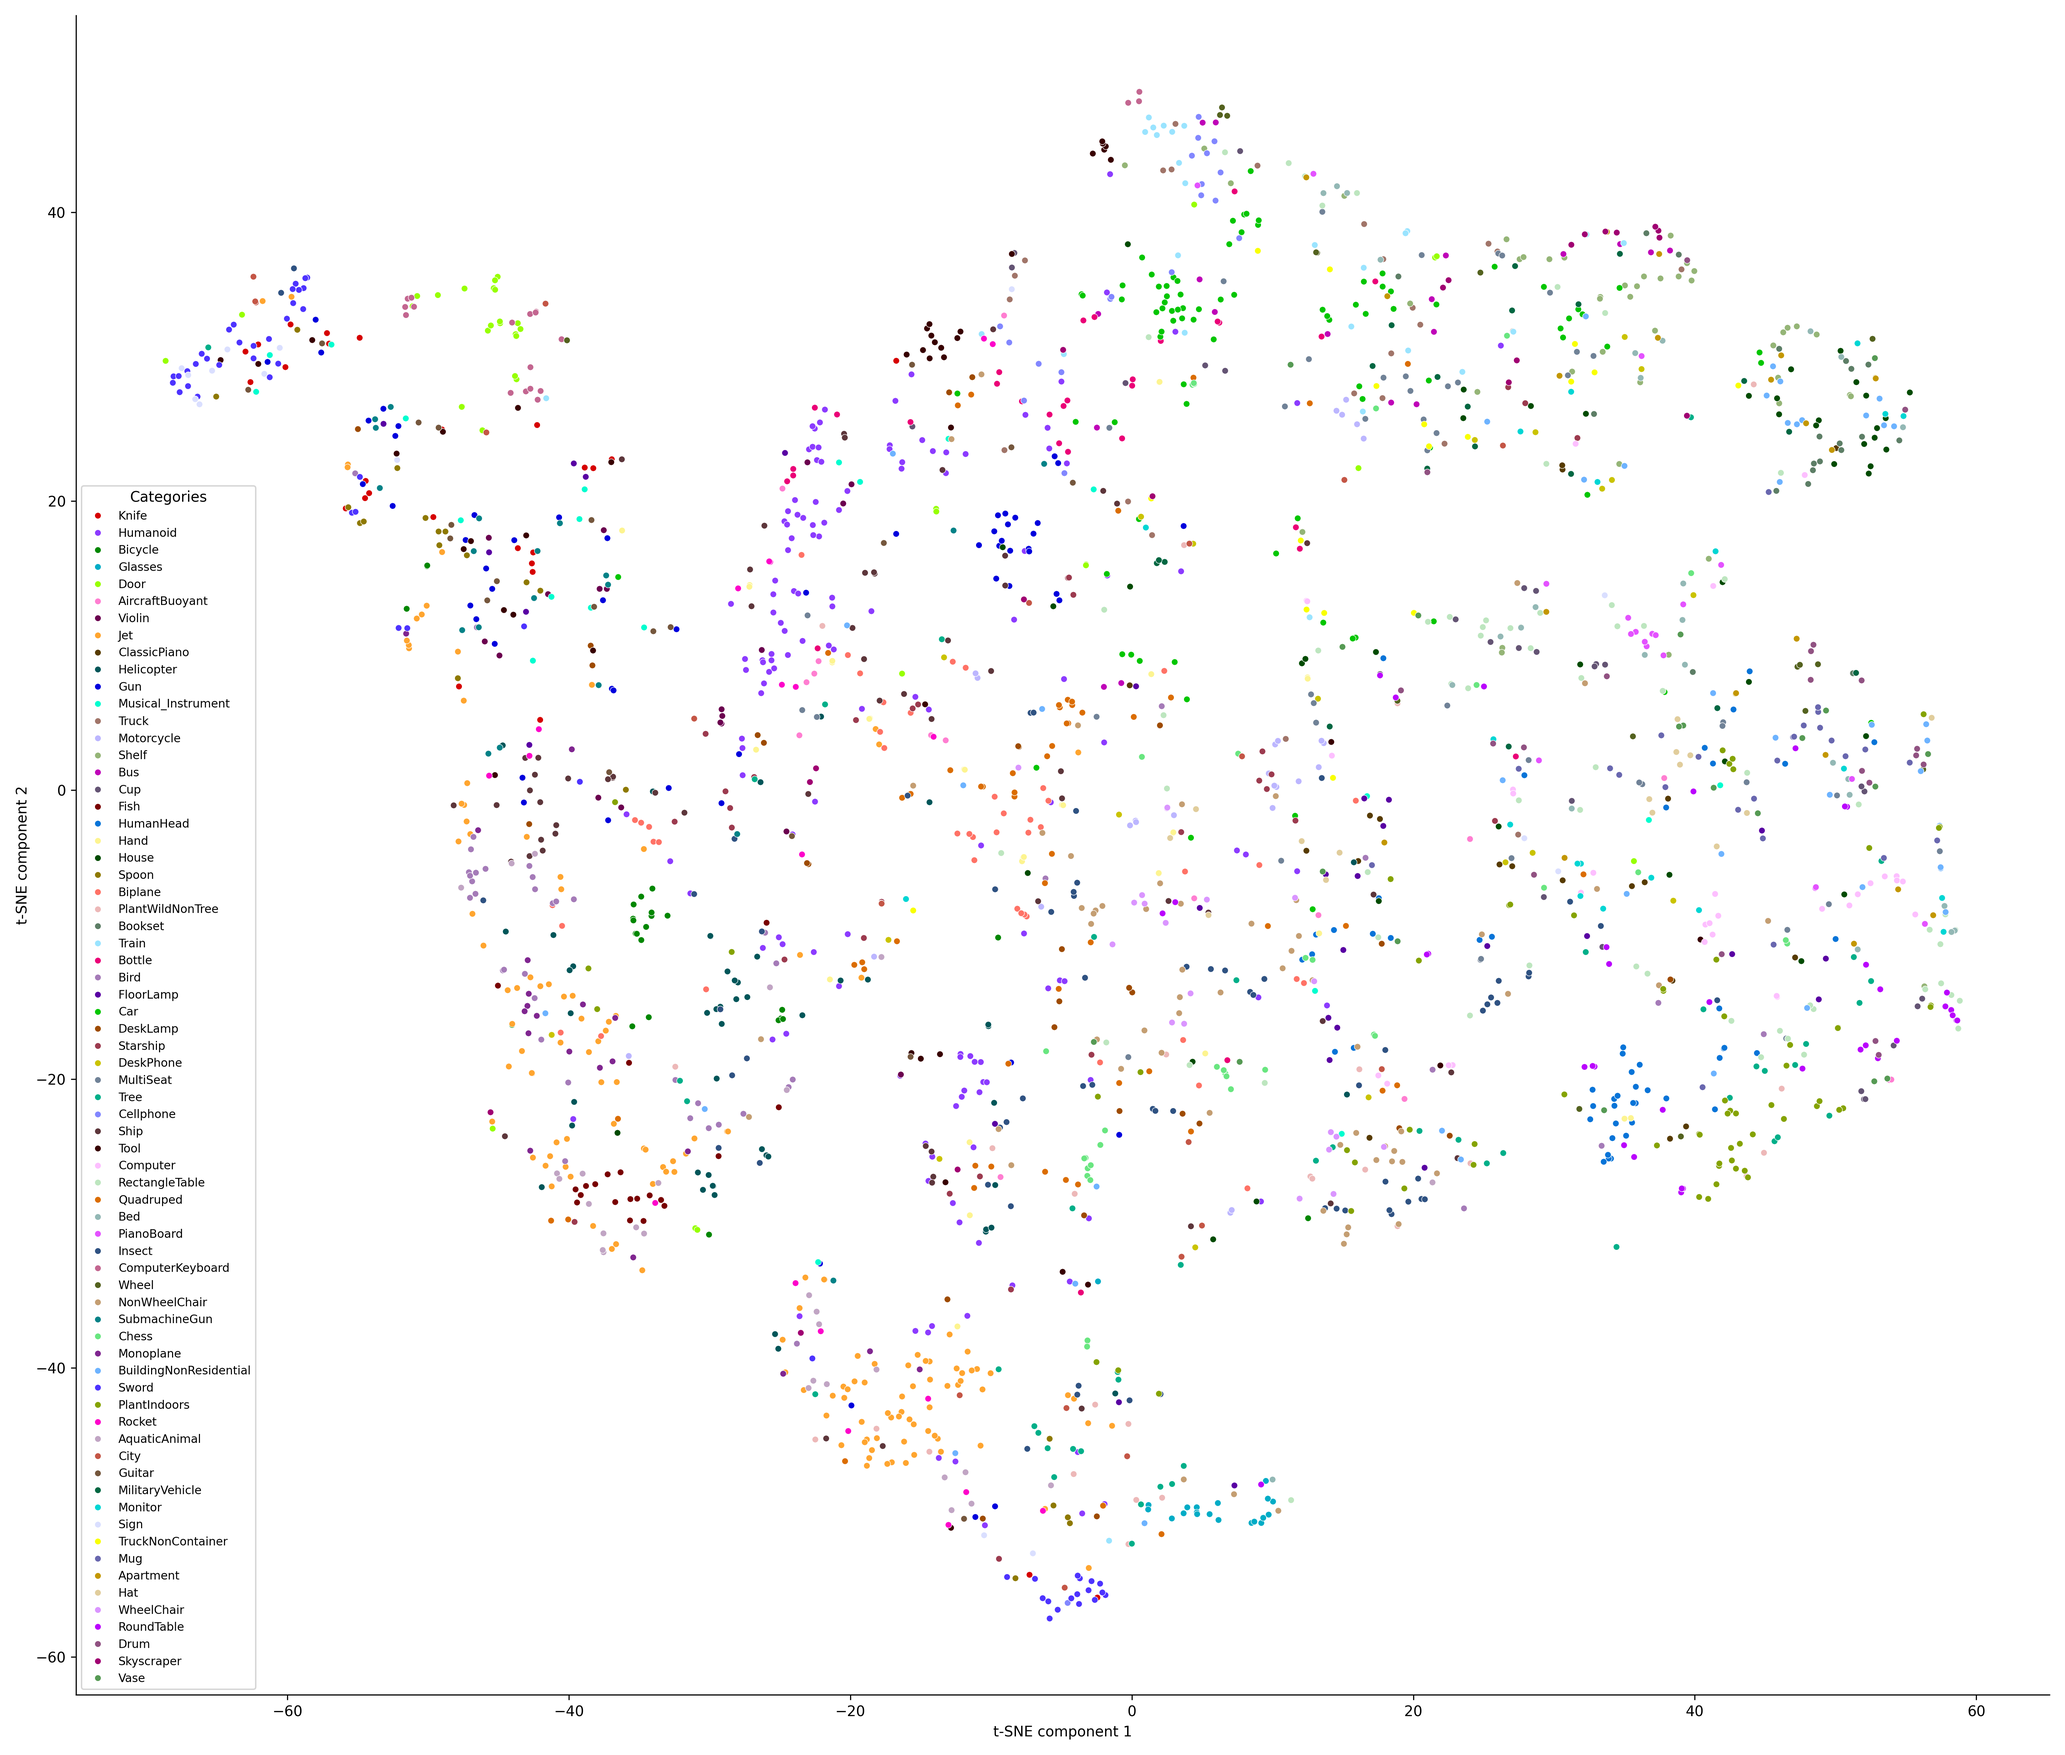
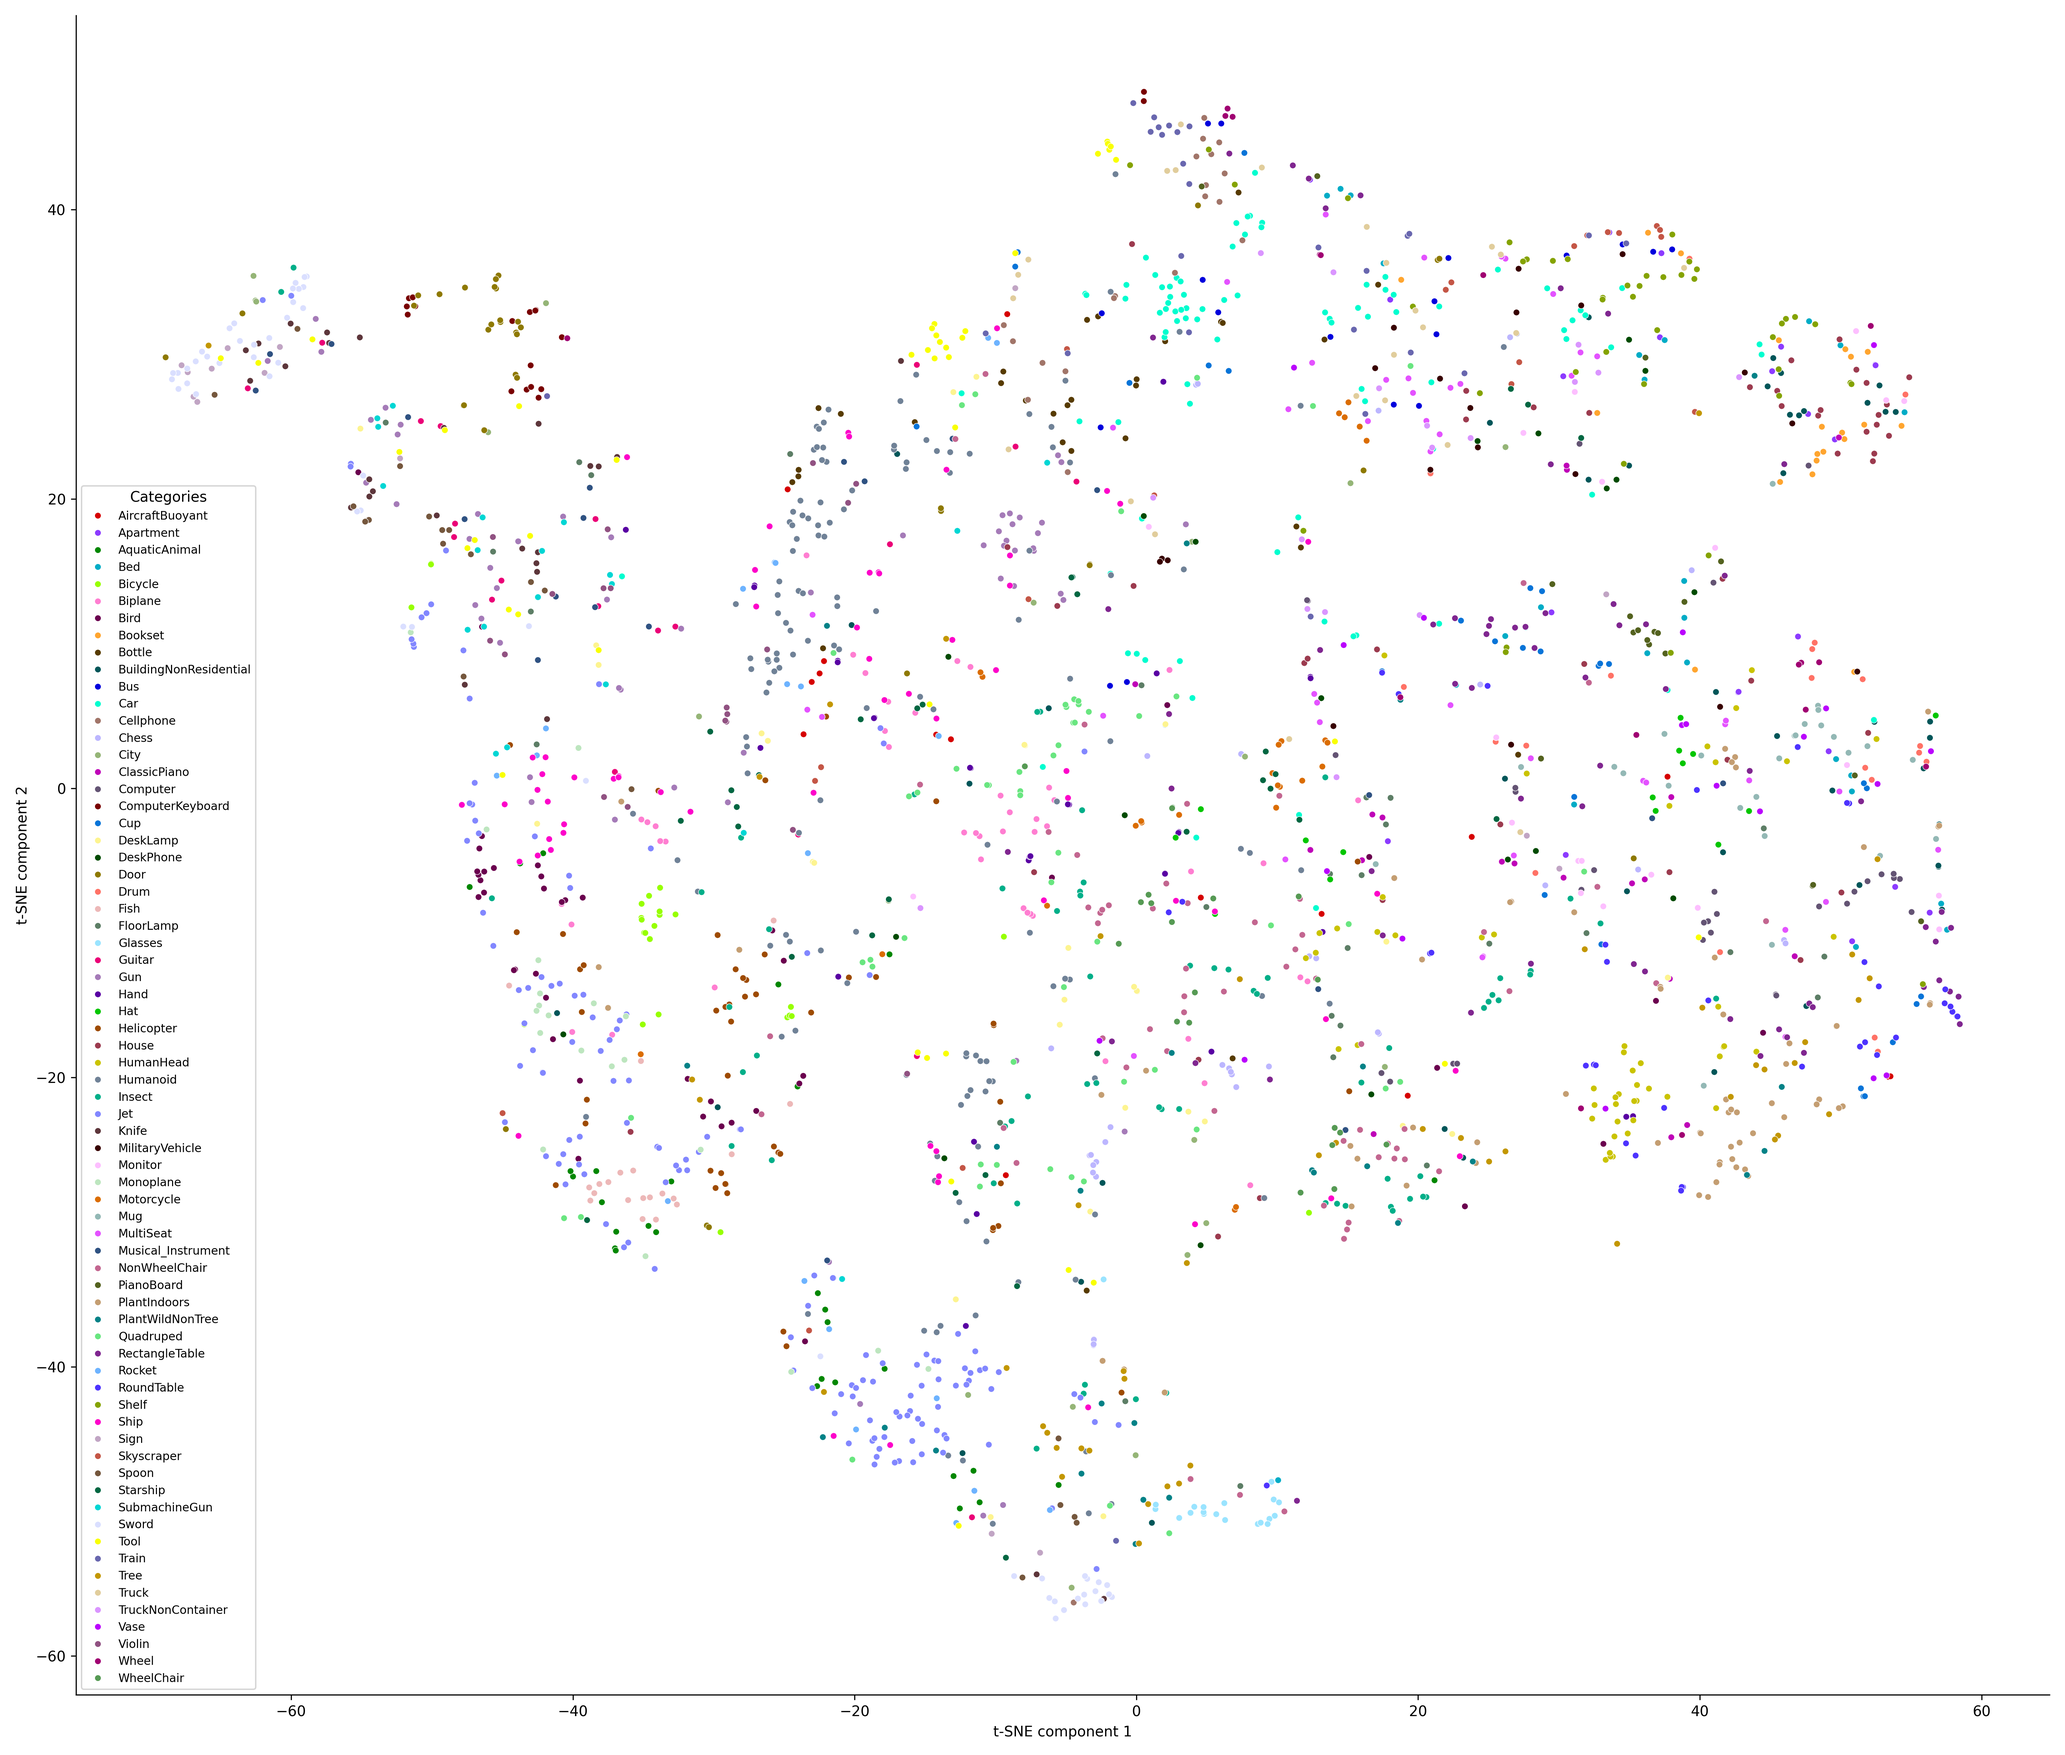
Formatting

diff --git a/Rorschach/visualization/dim_reduction.py b/Rorschach/visualization/dim_reduction.py
@@ -1,43 +1,34 @@
-import csv
 import os
-import numpy as np
-import seaborn as sns
+
 import colorcet as cc
+import numpy as np
+import pandas as pd
+import seaborn as sns
 from matplotlib import pyplot as plt
 from sklearn.manifold import TSNE
 
 
+def get_all_features(features_path):
+    # Reduced version of Rorschach.querying.query.get_all_features
+    if not os.path.exists(features_path):
+        raise Exception(f"\nThe '{features_path}' file does not exist.")
 
-def get_features(features_path: str) -> tuple:
-    mesh_paths = []
-    categories = []
-    features = []
+    df = pd.read_csv(features_path)
 
-    # Check if the file exists
-    if not os.path.isfile(features_path):
-        raise FileNotFoundError(f"Features file not found at {features_path}")
+    categories = df["category"].values
+    features = df.drop(["filename", "category"], axis=1).astype(float).values
 
-    with open(features_path, newline='') as file:
-        csv_reader = csv.reader(file)
-
-        # Skip the first row (header)
-        next(csv_reader)
-
-        for row in csv_reader:
-            if len(row) >= 1:
-                # First element is the mesh path
-                mesh_paths.append(row[0])
-                # Second element is the category label (Humanoid, Vase, etc.)
-                categories.append(row[1])
-                # The remainder of the row are the features (excluding 'volume' and 'compactness' for now)
-                features.append(row[2:])
-
-    return mesh_paths, categories, np.array(features).astype(float)
+    return categories, features
 
 
 def main(fp_features: str, fp_save: str, tsn_no_components: int = 2, tsne_perplexity: int = 10, i: int = 7) -> None:
     # Load feature vectors for db shapes
-    mesh_paths, categories, features = get_features(fp_features)
+    categories, features = get_all_features(fp_features)
+
+    # Sort by category
+    idx = np.argsort(categories)
+    features = features[idx]
+    categories = categories[idx]
 
     # Set NaN values to 0
     features = np.nan_to_num(features, nan=0, posinf=0, neginf=0)
@@ -56,20 +47,18 @@ def main(fp_features: str, fp_save: str, tsn_no_components: int = 2, tsne_perple
     palette = sns.color_palette(cc.glasbey, n_colors=69)
 
     # Use Seaborn for plotting
-    sns.scatterplot(
-        x=features_embedded[:, 0],
-        y=features_embedded[:, 1],
-        hue=categories,  
-        palette=palette, 
-        s=20
-    )
+    sns.scatterplot(x=features_embedded[:, 0],
+                    y=features_embedded[:, 1],
+                    hue=categories,
+                    palette=palette,
+                    s=20)
 
     # Remove top and right spines
     sns.despine()
 
     plt.xlabel("t-SNE component 1")
     plt.ylabel("t-SNE component 2")
-    plt.legend(title='Categories', loc='lower left', fontsize='8')
+    plt.legend(title="Categories", loc="lower left", fontsize="8")
     plt.tight_layout()
 
     # Save the plot

diff --git a/Rorschach/querying/query.py b/Rorschach/querying/query.py
@@ -48,7 +48,7 @@ def get_all_features(features_path):
     categories = df["category"].values
     features = df.drop(["filename", "category"], axis=1).astype(float).values
 
-    return mesh_paths, categories, np.array(features).astype(float)
+    return mesh_paths, categories, features
 
 
 # Custom distance function
